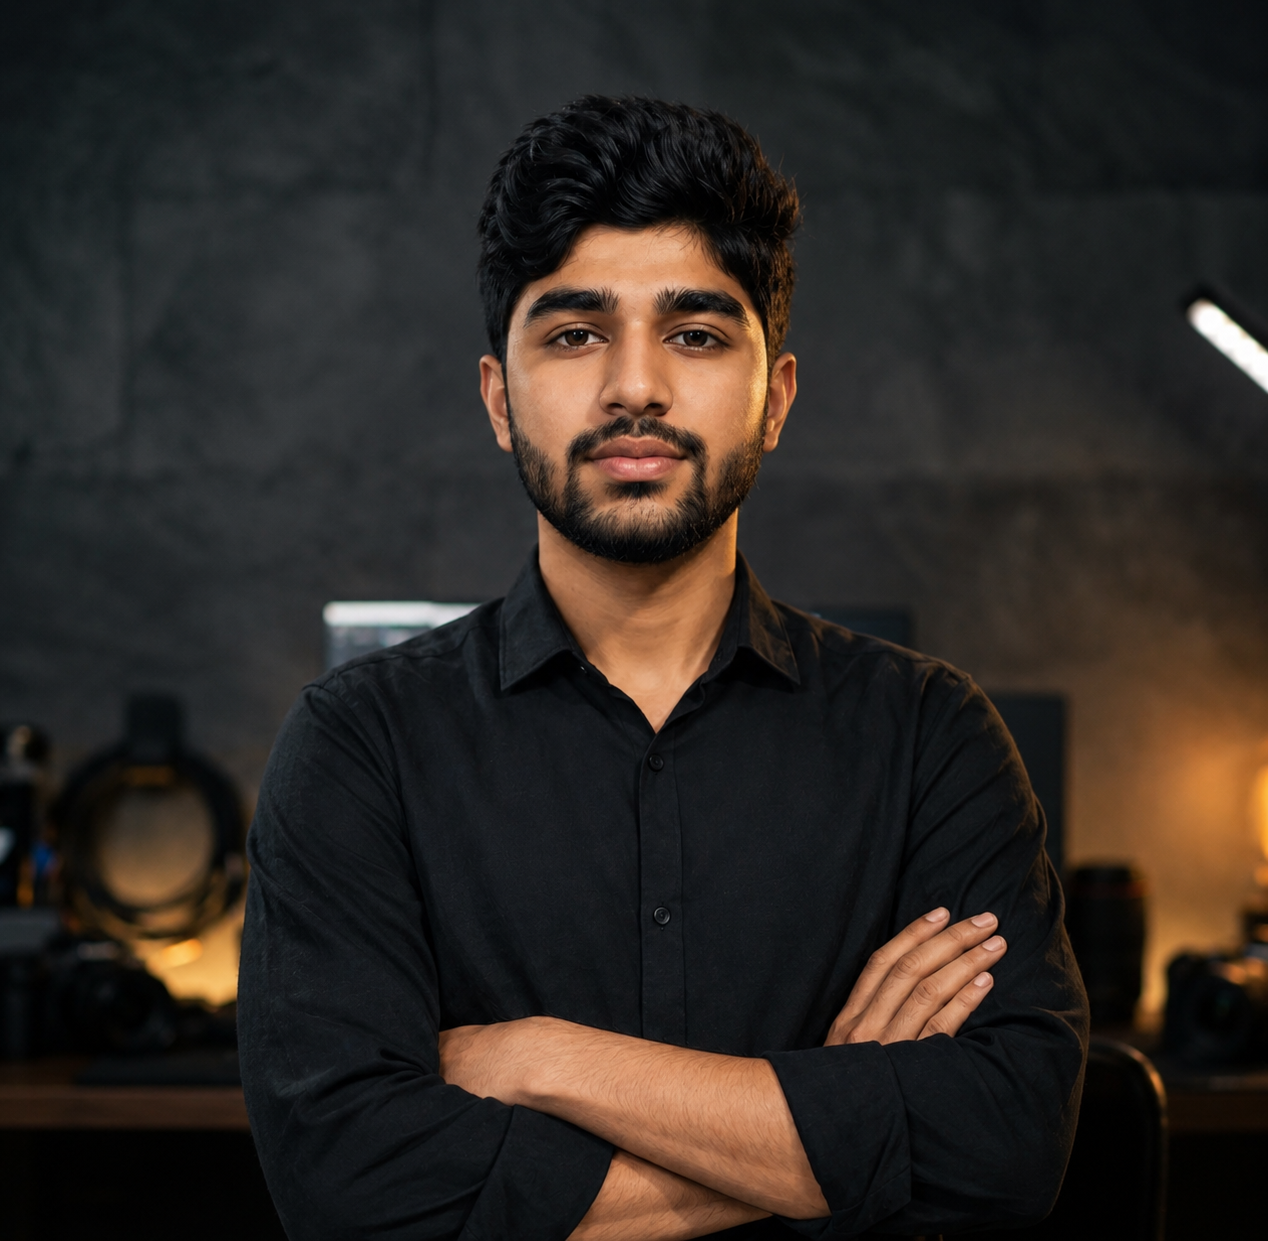
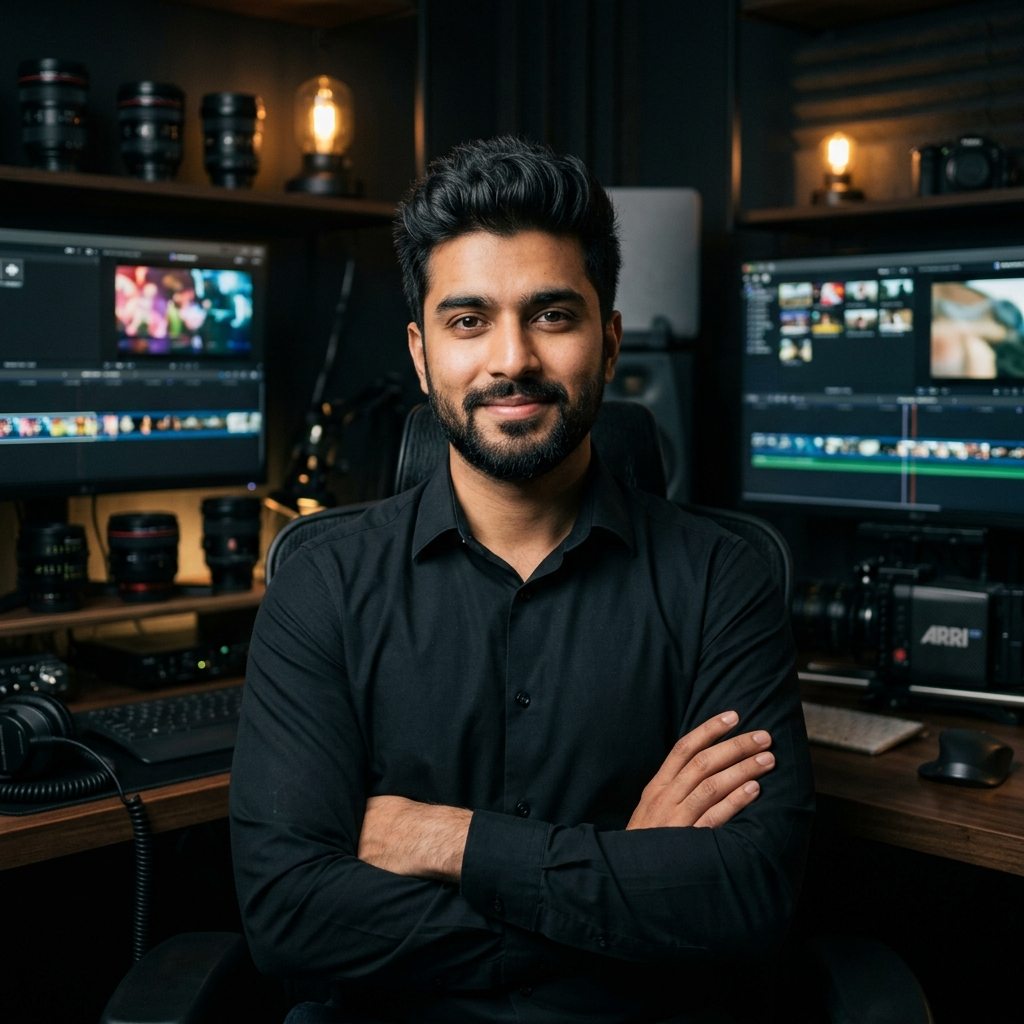
Add files via upload

diff --git a/public/files/VideoModal.tsx b/public/files/VideoModal.tsx
@@ -1,0 +1,189 @@
+import React, { useEffect } from 'react';
+import { X, Play, Clock, Eye, TrendingUp, CheckCircle, ArrowRight } from 'lucide-react';
+import { LongFormProject } from '../data/portfolioData.ts';
+import { triggerHaptic } from '../utils/haptics.ts';
+import { getEmbedUrl, isDirectVideoFile } from '../utils/videoHelpers.ts';
+
+interface VideoModalProps {
+  project: LongFormProject | null;
+  onClose: () => void;
+  onOpenHire: () => void;
+}
+
+export const VideoModal: React.FC<VideoModalProps> = ({
+  project,
+  onClose,
+  onOpenHire,
+}) => {
+  useEffect(() => {
+    const handleKeyDown = (e: KeyboardEvent) => {
+      if (e.key === 'Escape') {
+        triggerHaptic('light');
+        onClose();
+      }
+    };
+    window.addEventListener('keydown', handleKeyDown);
+    return () => window.removeEventListener('keydown', handleKeyDown);
+  }, [onClose]);
+
+  if (!project) return null;
+
+  return (
+    <div className="fixed inset-0 z-50 flex items-center justify-center p-3 sm:p-6 overflow-y-auto bg-black/85 backdrop-blur-xl animate-in fade-in duration-200">
+      <div className="relative w-full max-w-4xl rounded-2xl bg-[#141418] border border-white/10 shadow-2xl overflow-hidden my-auto max-h-[92vh] flex flex-col">
+        
+        {/* Modal Header */}
+        <div className="flex items-center justify-between p-4 sm:p-5 border-b border-white/5 bg-[#18181f]">
+          <div className="flex items-center gap-3">
+            <span className="px-2.5 py-1 rounded-md bg-amber-500/10 border border-amber-500/20 text-amber-400 text-xs font-semibold">
+              {project.categoryLabel}
+            </span>
+            <span className="text-xs text-zinc-400 font-medium">{project.client}</span>
+          </div>
+
+          <button
+            onClick={() => {
+              triggerHaptic('light');
+              onClose();
+            }}
+            aria-label="Close modal"
+            className="w-8 h-8 rounded-full bg-zinc-800 hover:bg-zinc-700 text-zinc-400 hover:text-white flex items-center justify-center transition-colors cursor-pointer"
+          >
+            <X className="w-4 h-4" />
+          </button>
+        </div>
+
+        {/* Modal Scrollable Body */}
+        <div className="overflow-y-auto p-4 sm:p-6 space-y-6">
+          
+          {/* Video Player */}
+          <div className="relative aspect-video w-full rounded-xl overflow-hidden bg-black border border-white/10 shadow-lg">
+            {project.videoUrl ? (
+              isDirectVideoFile(project.videoUrl) ? (
+                <video
+                  src={project.videoUrl}
+                  controls
+                  autoPlay
+                  className="w-full h-full object-contain"
+                />
+              ) : (
+                <iframe
+                  src={getEmbedUrl(project.videoUrl) || project.videoUrl}
+                  title={project.title}
+                  allow="accelerometer; autoplay; clipboard-write; encrypted-media; gyroscope; picture-in-picture; web-share"
+                  allowFullScreen
+                  className="w-full h-full border-0"
+                />
+              )
+            ) : (
+              <div className="relative w-full h-full">
+                <img
+                  src={project.thumbnail}
+                  alt={project.title}
+                  className="w-full h-full object-cover"
+                />
+                <div className="absolute inset-0 bg-gradient-to-t from-black/80 via-transparent to-black/30" />
+                
+                {/* Visual badge */}
+                <div className="absolute bottom-4 left-4 right-4 flex items-center justify-between text-xs text-zinc-300">
+                  <div className="flex items-center gap-2">
+                    <span className="px-2 py-0.5 rounded bg-black/80 font-mono text-amber-400">{project.duration}</span>
+                    <span>4K UHD Master</span>
+                  </div>
+                  <span className="text-amber-400 font-bold">{project.views} Views</span>
+                </div>
+              </div>
+            )}
+          </div>
+
+          {/* Project Details */}
+          <div>
+            <div className="mb-3">
+              <h2 className="font-display text-xl sm:text-2xl font-bold text-white">
+                {project.title}
+              </h2>
+            </div>
+
+            <p className="text-sm text-zinc-300 leading-relaxed mb-6">
+              {project.description}
+            </p>
+
+            {/* Quick Metrics Bar */}
+            <div className="grid grid-cols-2 sm:grid-cols-4 gap-3 p-4 rounded-xl bg-[#0e0e12] border border-white/5 mb-6 text-center">
+              <div>
+                <div className="text-[11px] text-zinc-500">Client / Channel</div>
+                <div className="text-xs sm:text-sm font-bold text-white mt-0.5 truncate">{project.client}</div>
+              </div>
+              <div>
+                <div className="text-[11px] text-zinc-500">Total Views</div>
+                <div className="text-xs sm:text-sm font-bold text-amber-400 mt-0.5">{project.views}</div>
+              </div>
+              <div>
+                <div className="text-[11px] text-zinc-500">Viewer Retention</div>
+                <div className="text-xs sm:text-sm font-bold text-emerald-400 mt-0.5">{project.retention}</div>
+              </div>
+              <div>
+                <div className="text-[11px] text-zinc-500">Runtime</div>
+                <div className="text-xs sm:text-sm font-bold text-white mt-0.5">{project.duration}</div>
+              </div>
+            </div>
+
+            {/* Editing Techniques & Software */}
+            <div className="space-y-4">
+              <div>
+                <h4 className="text-xs font-semibold text-zinc-400 uppercase tracking-wider mb-2">
+                  Software & Tools
+                </h4>
+                <div className="flex flex-wrap gap-2">
+                  {project.software.map((sw) => (
+                    <span
+                      key={sw}
+                      className="px-2.5 py-1 rounded-md bg-[#18181f] border border-white/5 text-xs text-zinc-300 font-mono"
+                    >
+                      {sw}
+                    </span>
+                  ))}
+                </div>
+              </div>
+
+              <div>
+                <h4 className="text-xs font-semibold text-zinc-400 uppercase tracking-wider mb-2">
+                  Pacing & Retention Strategies
+                </h4>
+                <ul className="space-y-1.5">
+                  {project.keyPacingTechniques.map((tech, idx) => (
+                    <li key={idx} className="flex items-center gap-2 text-xs sm:text-sm text-zinc-300">
+                      <CheckCircle className="w-3.5 h-3.5 text-amber-400 shrink-0" />
+                      <span>{tech}</span>
+                    </li>
+                  ))}
+                </ul>
+              </div>
+            </div>
+
+          </div>
+
+          {/* Bottom Action Footer */}
+          <div className="pt-4 border-t border-white/5 flex flex-col sm:flex-row items-center justify-between gap-4">
+            <span className="text-xs text-zinc-400">
+              Need editing of this caliber for your channel?
+            </span>
+            <button
+              onClick={() => {
+                triggerHaptic('success');
+                onClose();
+                onOpenHire();
+              }}
+              className="w-full sm:w-auto px-5 py-2.5 rounded-xl bg-amber-400 hover:bg-amber-300 text-black font-bold text-xs sm:text-sm transition-all shadow-md shadow-amber-500/15 cursor-pointer flex items-center justify-center gap-2"
+            >
+              <span>Book Saqib For Your Next Video</span>
+              <ArrowRight className="w-4 h-4" />
+            </button>
+          </div>
+
+        </div>
+
+      </div>
+    </div>
+  );
+};

diff --git a/public/files/App.tsx b/public/files/App.tsx
@@ -1,0 +1,139 @@
+import React, { useState, useEffect } from 'react';
+import { Header } from './components/Header.tsx';
+import { HeroSection } from './components/HeroSection.tsx';
+import { ReviewsMarquee } from './components/ReviewsMarquee.tsx';
+import { PortfolioShowcase } from './components/PortfolioShowcase.tsx';
+import { ProcessSection } from './components/ProcessSection.tsx';
+import { VideoModal } from './components/VideoModal.tsx';
+import { ShortModal } from './components/ShortModal.tsx';
+import { ContactModal } from './components/ContactModal.tsx';
+import { Footer } from './components/Footer.tsx';
+import { LongFormProject, ShortFormProject } from './data/portfolioData.ts';
+
+export default function App() {
+  const [selectedLongProject, setSelectedLongProject] = useState<LongFormProject | null>(null);
+  const [selectedShortProject, setSelectedShortProject] = useState<ShortFormProject | null>(null);
+  const [isContactOpen, setIsContactOpen] = useState(false);
+
+  // Initialize portfolio tab from URL parameter (?type=shorts or ?type=long or hash #shorts / #long)
+  const [portfolioTab, setPortfolioTab] = useState<'long' | 'vertical'>(() => {
+    if (typeof window === 'undefined') return 'long';
+    try {
+      const params = new URLSearchParams(window.location.search);
+      const typeParam = params.get('type') || params.get('view') || params.get('tab');
+      if (typeParam) {
+        if (['shorts', 'short', 'vertical', 'reels', 'reel', 'tiktok'].includes(typeParam.toLowerCase())) {
+          return 'vertical';
+        }
+        if (['long', 'documentary', 'documentaries', 'youtube'].includes(typeParam.toLowerCase())) {
+          return 'long';
+        }
+      }
+      const hash = window.location.hash.toLowerCase();
+      if (hash.includes('short') || hash.includes('vertical') || hash.includes('reel')) {
+        return 'vertical';
+      }
+    } catch {}
+    return 'long';
+  });
+
+  const scrollToSection = (id: string) => {
+    const el = document.getElementById(id);
+    if (el) {
+      el.scrollIntoView({ behavior: 'smooth' });
+    }
+  };
+
+  // If client lands with ?type=shorts or ?type=long or #portfolio-section, auto-scroll directly to the portfolio
+  useEffect(() => {
+    try {
+      const params = new URLSearchParams(window.location.search);
+      const typeParam = params.get('type') || params.get('view') || params.get('tab');
+      const hash = window.location.hash.toLowerCase();
+      if (typeParam || hash.includes('short') || hash.includes('vertical') || hash.includes('long') || hash.includes('portfolio')) {
+        const timer = setTimeout(() => {
+          scrollToSection('portfolio-section');
+        }, 350);
+        return () => clearTimeout(timer);
+      }
+    } catch {}
+  }, []);
+
+  const handleTabSwitch = (tab: 'long' | 'vertical') => {
+    setPortfolioTab(tab);
+    scrollToSection('portfolio-section');
+    try {
+      const url = new URL(window.location.href);
+      url.searchParams.set('type', tab === 'vertical' ? 'shorts' : 'long');
+      url.hash = 'portfolio-section';
+      window.history.replaceState(null, '', url.toString());
+    } catch {}
+  };
+
+  return (
+    <div className="min-h-screen bg-[#09090b] text-[#f4f4f5] flex flex-col selection:bg-amber-500/30 selection:text-amber-200">
+      {/* Clean Sticky Header */}
+      <Header
+        onOpenContact={() => setIsContactOpen(true)}
+        onScrollToSection={scrollToSection}
+        onSwitchTab={handleTabSwitch}
+      />
+
+      <main className="flex-1">
+        {/* Hero Section with Saqib Portrait and direct CTA */}
+        <HeroSection
+          onOpenContact={() => setIsContactOpen(true)}
+          onScrollToPortfolio={() => scrollToSection('portfolio-section')}
+        />
+
+        {/* Continuous Horizontal Moving Reviews Panels right beneath image section */}
+        <ReviewsMarquee />
+
+        {/* Unified, clean Portfolio Showcase (YouTube Long-form & Vertical Reels) */}
+        <PortfolioShowcase
+          activeTab={portfolioTab}
+          onTabChange={(tab) => {
+            setPortfolioTab(tab);
+            try {
+              const url = new URL(window.location.href);
+              url.searchParams.set('type', tab === 'vertical' ? 'shorts' : 'long');
+              url.hash = 'portfolio-section';
+              window.history.replaceState(null, '', url.toString());
+            } catch {}
+          }}
+          onSelectLong={(project) => setSelectedLongProject(project)}
+          onSelectShort={(short) => setSelectedShortProject(short)}
+        />
+
+        {/* Simple 3-Step Process & Direct Call to Action */}
+        <ProcessSection onOpenContact={() => setIsContactOpen(true)} />
+      </main>
+
+      {/* Clean Footer */}
+      <Footer
+        onScrollToSection={scrollToSection}
+        onOpenContact={() => setIsContactOpen(true)}
+      />
+
+      {/* Streamlined Video Modal */}
+      <VideoModal
+        project={selectedLongProject}
+        onClose={() => setSelectedLongProject(null)}
+        onOpenHire={() => setIsContactOpen(true)}
+      />
+
+      {/* Streamlined Short Reel Modal */}
+      <ShortModal
+        short={selectedShortProject}
+        onClose={() => setSelectedShortProject(null)}
+        onOpenHire={() => setIsContactOpen(true)}
+      />
+
+      {/* Contact / Hire Modal */}
+      <ContactModal
+        isOpen={isContactOpen}
+        onClose={() => setIsContactOpen(false)}
+      />
+    </div>
+  );
+}
